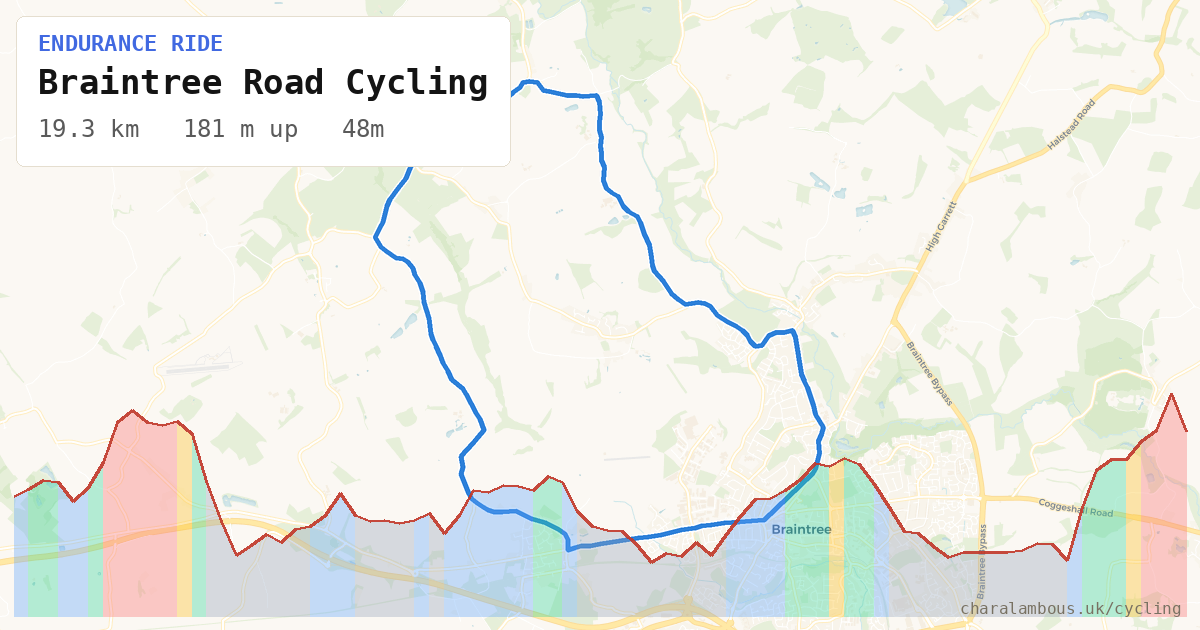
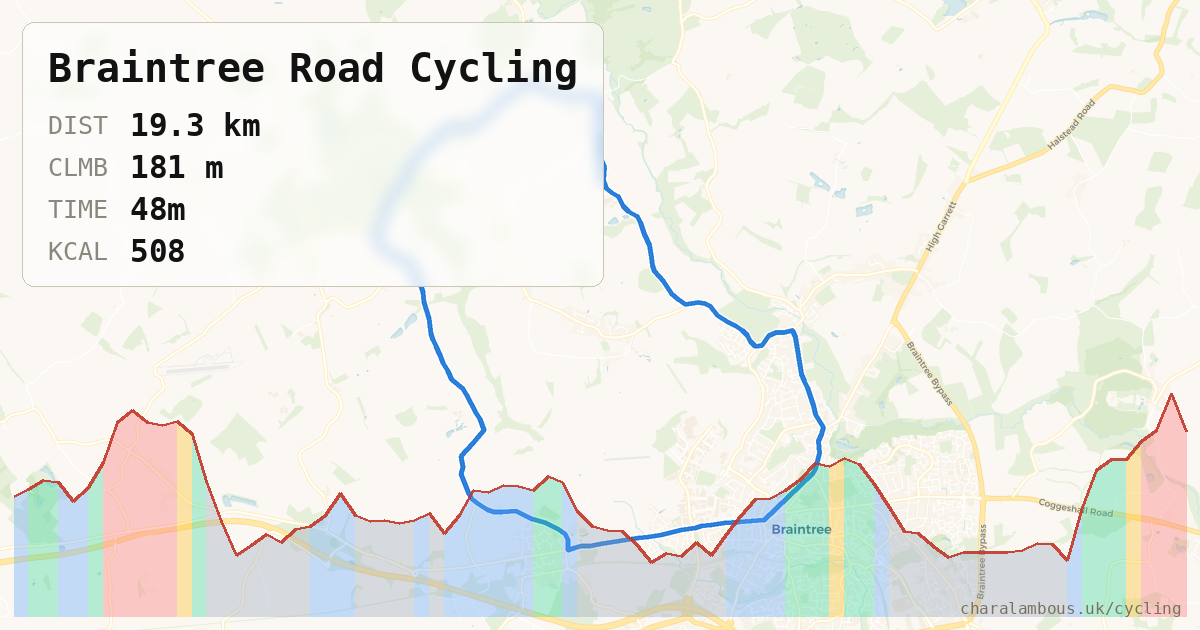
Ride page: drop ride-type badge, title+date on the Share line above the map. OG card: DIST/CLMB/TIME/KCAL frosted-glass stats panel, larger name, no ride type

diff --git a/layouts/cycling/single.html b/layouts/cycling/single.html
@@ -21,10 +21,11 @@
   .rtype .rtime { text-transform: none; font-weight: normal; color: #999; letter-spacing: 0; }
   .dnums { font-family: monospace; font-size: 0.78em; color: #aaa; font-variant-numeric: tabular-nums; }
 
-  /* Route heading row with averages on the right */
-  .route-head { display: flex; align-items: center; justify-content: space-between; flex-wrap: wrap; gap: 0.3em 1em; margin: 2em 0 0.7em; }
-  .route-head .rtype { margin: 0; }
-  .rh-meta { display: flex; align-items: center; gap: 0.6em 0.9em; flex-wrap: wrap; }
+  /* Title + Share on one line above the map */
+  .route-head { display: flex; align-items: center; justify-content: space-between; flex-wrap: wrap; gap: 0.3em 1em; margin: 0.5em 0 0.7em; }
+  .rh-title { display: flex; align-items: baseline; gap: 0.6em; flex-wrap: wrap; }
+  .rh-title .cy-h1 { margin: 0; }
+  .rh-title .cy-date { margin: 0; }
   .share-btn { font-family: monospace; font-size: 0.78em; color: #4169E1; background: #eef2fe; border: 1px solid #cdd8f7; border-radius: 3px; padding: 0.35em 0.75em; cursor: pointer; -webkit-tap-highlight-color: transparent; }
   .share-btn:active { transform: translateY(1px); }
   .share-btn[disabled] { opacity: 0.55; cursor: default; }
@@ -82,31 +83,12 @@
   .view-all a { color: #4169E1; text-decoration: none; border-bottom: 1px solid #c5ccee; }
 </style>
 
-<p class="cy-h1">{{ .Title }}</p>
-<p class="cy-date">{{ .Date.Format "Monday, 2 January 2006" }}</p>
-
-{{/* Effort dashboard: read the ride's character at a glance (FTP 220 placeholder, matches hugo_writer.py + the graph) */}}
-{{ $ftp := 220.0 }}
-{{ $np := or .Params.normalized_power .Params.avg_power }}
-{{ $if := 0.0 }}{{ if $np }}{{ $if = div (float $np) $ftp }}{{ end }}
-{{ $type := "Ride" }}{{ $effort := "" }}{{ $ecolor := "#4169E1" }}
-{{ if $np }}
-  {{ if lt $if 0.65 }}{{ $type = "Recovery ride" }}{{ $effort = "easy" }}{{ $ecolor = "#3aa06a" }}
-  {{ else if lt $if 0.80 }}{{ $type = "Endurance ride" }}{{ $effort = "moderate" }}{{ $ecolor = "#4169E1" }}
-  {{ else if lt $if 0.90 }}{{ $type = "Tempo ride" }}{{ $effort = "hard" }}{{ $ecolor = "#e8850c" }}
-  {{ else if lt $if 1.0 }}{{ $type = "Threshold ride" }}{{ $effort = "hard" }}{{ $ecolor = "#e8850c" }}
-  {{ else }}{{ $type = "Intervals" }}{{ $effort = "very hard" }}{{ $ecolor = "#c0392b" }}{{ end }}
-{{ end }}
-{{ $effpct := 0.0 }}{{ if $np }}{{ $effpct = mul (math.Max 0.0 (math.Min 1.0 (div (sub $if 0.5) 0.55))) 100 }}{{ end }}
-{{ $mpk := 0.0 }}{{ if gt (float .Params.distance_km) 0.0 }}{{ $mpk = div (float .Params.elevation_m) (float .Params.distance_km) }}{{ end }}
-{{ $terrain := cond (lt $mpk 6.0) "flat" (cond (lt $mpk 12.0) "rolling" (cond (lt $mpk 20.0) "hilly" "mountainous")) }}
-
 {{ $activityId := .Params.garmin_id }}
 {{ $activityData := index hugo.Data.cycling.activities $activityId }}
 {{ $hasProfile := false }}{{ if $activityData }}{{ $hasProfile = or $activityData.elevation_profile $activityData.power_profile $activityData.speed_profile }}{{ end }}
 
 <div class="route-head">
-  <p class="rtype"><span class="dot" style="background:{{ $ecolor }}"></span>{{ $type }}</p>
+  <div class="rh-title"><span class="cy-h1">{{ .Title }}</span><span class="cy-date">{{ .Date.Format "Monday, 2 January 2006" }}</span></div>
   <button type="button" class="share-btn" id="shareBtn">Share</button>
 </div>
 <div class="map-wrap">
@@ -396,7 +378,7 @@
   var shareBtn = document.getElementById('shareBtn');
   if (shareBtn) {
     var SHARE_URL = window.location.href.split('#')[0];
-    var SHARE_TITLE = {{ $type | jsonify }} + ' · {{ .Params.distance_km }} km';
+    var SHARE_TITLE = {{ .Title | jsonify }} + ' · {{ .Params.distance_km }} km';
     shareBtn.addEventListener('click', function() {
       if (navigator.share) {
         navigator.share({ title: SHARE_TITLE, url: SHARE_URL }).catch(function() {});

diff --git a/scripts/garmin-sync/og_card.py b/scripts/garmin-sync/og_card.py
@@ -7,7 +7,7 @@ tiles and projects the route; Pillow draws the overlays.
 """
 import math
 
-from PIL import Image, ImageDraw, ImageFont
+from PIL import Image, ImageDraw, ImageFont, ImageFilter
 from staticmap import StaticMap, Line
 
 import matplotlib.font_manager as fm
@@ -85,27 +85,54 @@ def _draw_power(base, power):
     return Image.alpha_composite(base, ov)
 
 
-def _draw_panel(base, ride_type, name, dist_km, climb_m, duration):
+def _draw_panel(base, name, dist_km, climb_m, duration, calories):
+    """Frosted-glass stats panel: name + DIST/CLMB/TIME/KCAL rows, with the map
+    blurred and lightened behind it so the blue route still shows through."""
+    d0 = ImageDraw.Draw(base)
+    f_name = _font(True, 40)
+    f_lab = _font(False, 25)
+    f_val = _font(True, 31)
+
+    rows = []
+    if dist_km is not None:
+        rows.append(("DIST", f"{dist_km} km"))
+    if climb_m is not None:
+        rows.append(("CLMB", f"{climb_m} m"))
+    if duration:
+        rows.append(("TIME", str(duration)))
+    if calories:
+        rows.append(("KCAL", str(int(round(float(calories))))))
+
+    pad, row_h, name_h, col_gap = 26, 42, 56, 22
+    label_w = int(max((d0.textlength(l, font=f_lab) for l, _ in rows), default=0))
+    val_w = int(max((d0.textlength(v, font=f_val) for _, v in rows), default=0))
+    content_w = max(int(d0.textlength(name, font=f_name)), label_w + col_gap + val_w)
+    x0, y0 = 22, 22
+    x1 = x0 + content_w + pad * 2
+    y1 = y0 + pad + name_h + len(rows) * row_h + pad - row_h + 30
+
+    # frosted glass: blur + lighten the map region under the panel
+    crop = base.crop((x0, y0, x1, y1)).filter(ImageFilter.GaussianBlur(7)).convert("RGBA")
+    crop = Image.blend(crop, Image.new("RGBA", crop.size, (255, 255, 255, 255)), 0.55)
+    mask = Image.new("L", crop.size, 0)
+    ImageDraw.Draw(mask).rounded_rectangle([0, 0, crop.size[0] - 1, crop.size[1] - 1], radius=12, fill=255)
+    base.paste(crop, (x0, y0), mask)
+
     d = ImageDraw.Draw(base)
-    f_type, f_name, f_stat = _font(True, 22), _font(True, 34), _font(False, 24)
-    stats = "   ".join([s for s in [
-        (f"{dist_km} km" if dist_km is not None else None),
-        (f"{climb_m} m up" if climb_m is not None else None),
-        (str(duration) if duration else None),
-    ] if s])
-    pad = 22
-    widths = [d.textlength(name, font=f_name), d.textlength(ride_type.upper(), font=f_type), d.textlength(stats, font=f_stat)]
-    pw = int(max(widths)) + pad * 2
-    ph = 150
-    d.rounded_rectangle([16, 16, 16 + pw, 16 + ph], radius=8, fill=(255, 255, 255, 224), outline=(229, 222, 207, 255), width=1)
-    d.text((16 + pad, 30), ride_type.upper(), font=f_type, fill=(65, 105, 225, 255))
-    d.text((16 + pad, 62), name, font=f_name, fill=(20, 20, 20, 255))
-    d.text((16 + pad, 114), stats, font=f_stat, fill=(90, 90, 90, 255))
+    d.rounded_rectangle([x0, y0, x1, y1], radius=12, outline=(205, 198, 182, 255), width=1)
+    tx = x0 + pad
+    d.text((tx, y0 + pad - 4), name, font=f_name, fill=(18, 18, 18, 255))
+    ty = y0 + pad + name_h
+    for lab, val in rows:
+        cy = ty + row_h / 2
+        d.text((tx, cy), lab, font=f_lab, fill=(140, 135, 124, 255), anchor="lm")
+        d.text((tx + label_w + col_gap, cy), val, font=f_val, fill=(18, 18, 18, 255), anchor="lm")
+        ty += row_h
     d.text((W - 18, H - 16), "charalambous.uk/cycling", font=_font(False, 16), fill=(120, 113, 98, 255), anchor="rs")
     return base
 
 
-def make_og_card(out_path, ride_type, name, dist_km, climb_m, duration, coords, power):
+def make_og_card(out_path, name, dist_km, climb_m, duration, calories, coords, power):
     """coords: (lat, lon) points.  power: power_profile list (may hold None)."""
     m = StaticMap(W, H, url_template=TILE_URL, padding_x=70, padding_y=80)
     if coords and len(coords) > 1:
@@ -117,5 +144,5 @@ def make_og_card(out_path, ride_type, name, dist_km, climb_m, duration, coords, 
         m.add_line(Line(lonlat, BLUE, 5))
     img = m.render().convert("RGBA")
     img = _draw_power(img, power)
-    img = _draw_panel(img, ride_type, name, dist_km, climb_m, duration)
+    img = _draw_panel(img, name, dist_km, climb_m, duration, calories)
     img.convert("RGB").save(out_path)

diff --git a/scripts/garmin-sync/hugo_writer.py b/scripts/garmin-sync/hugo_writer.py
@@ -299,8 +299,7 @@ def write_activity(activity, gpx_xml, streams=None):
         try:
             make_og_card(
                 str(OG_DIR / f"{activity_id}.png"),
-                ride_type_label(normalized_power, avg_power),
-                name, distance_km, elevation_m, duration_fmt,
+                name, distance_km, elevation_m, duration_fmt, calories,
                 gpx_coords(simplified_gpx), profiles.get("power_profile") or [],
             )
         except Exception as e:
